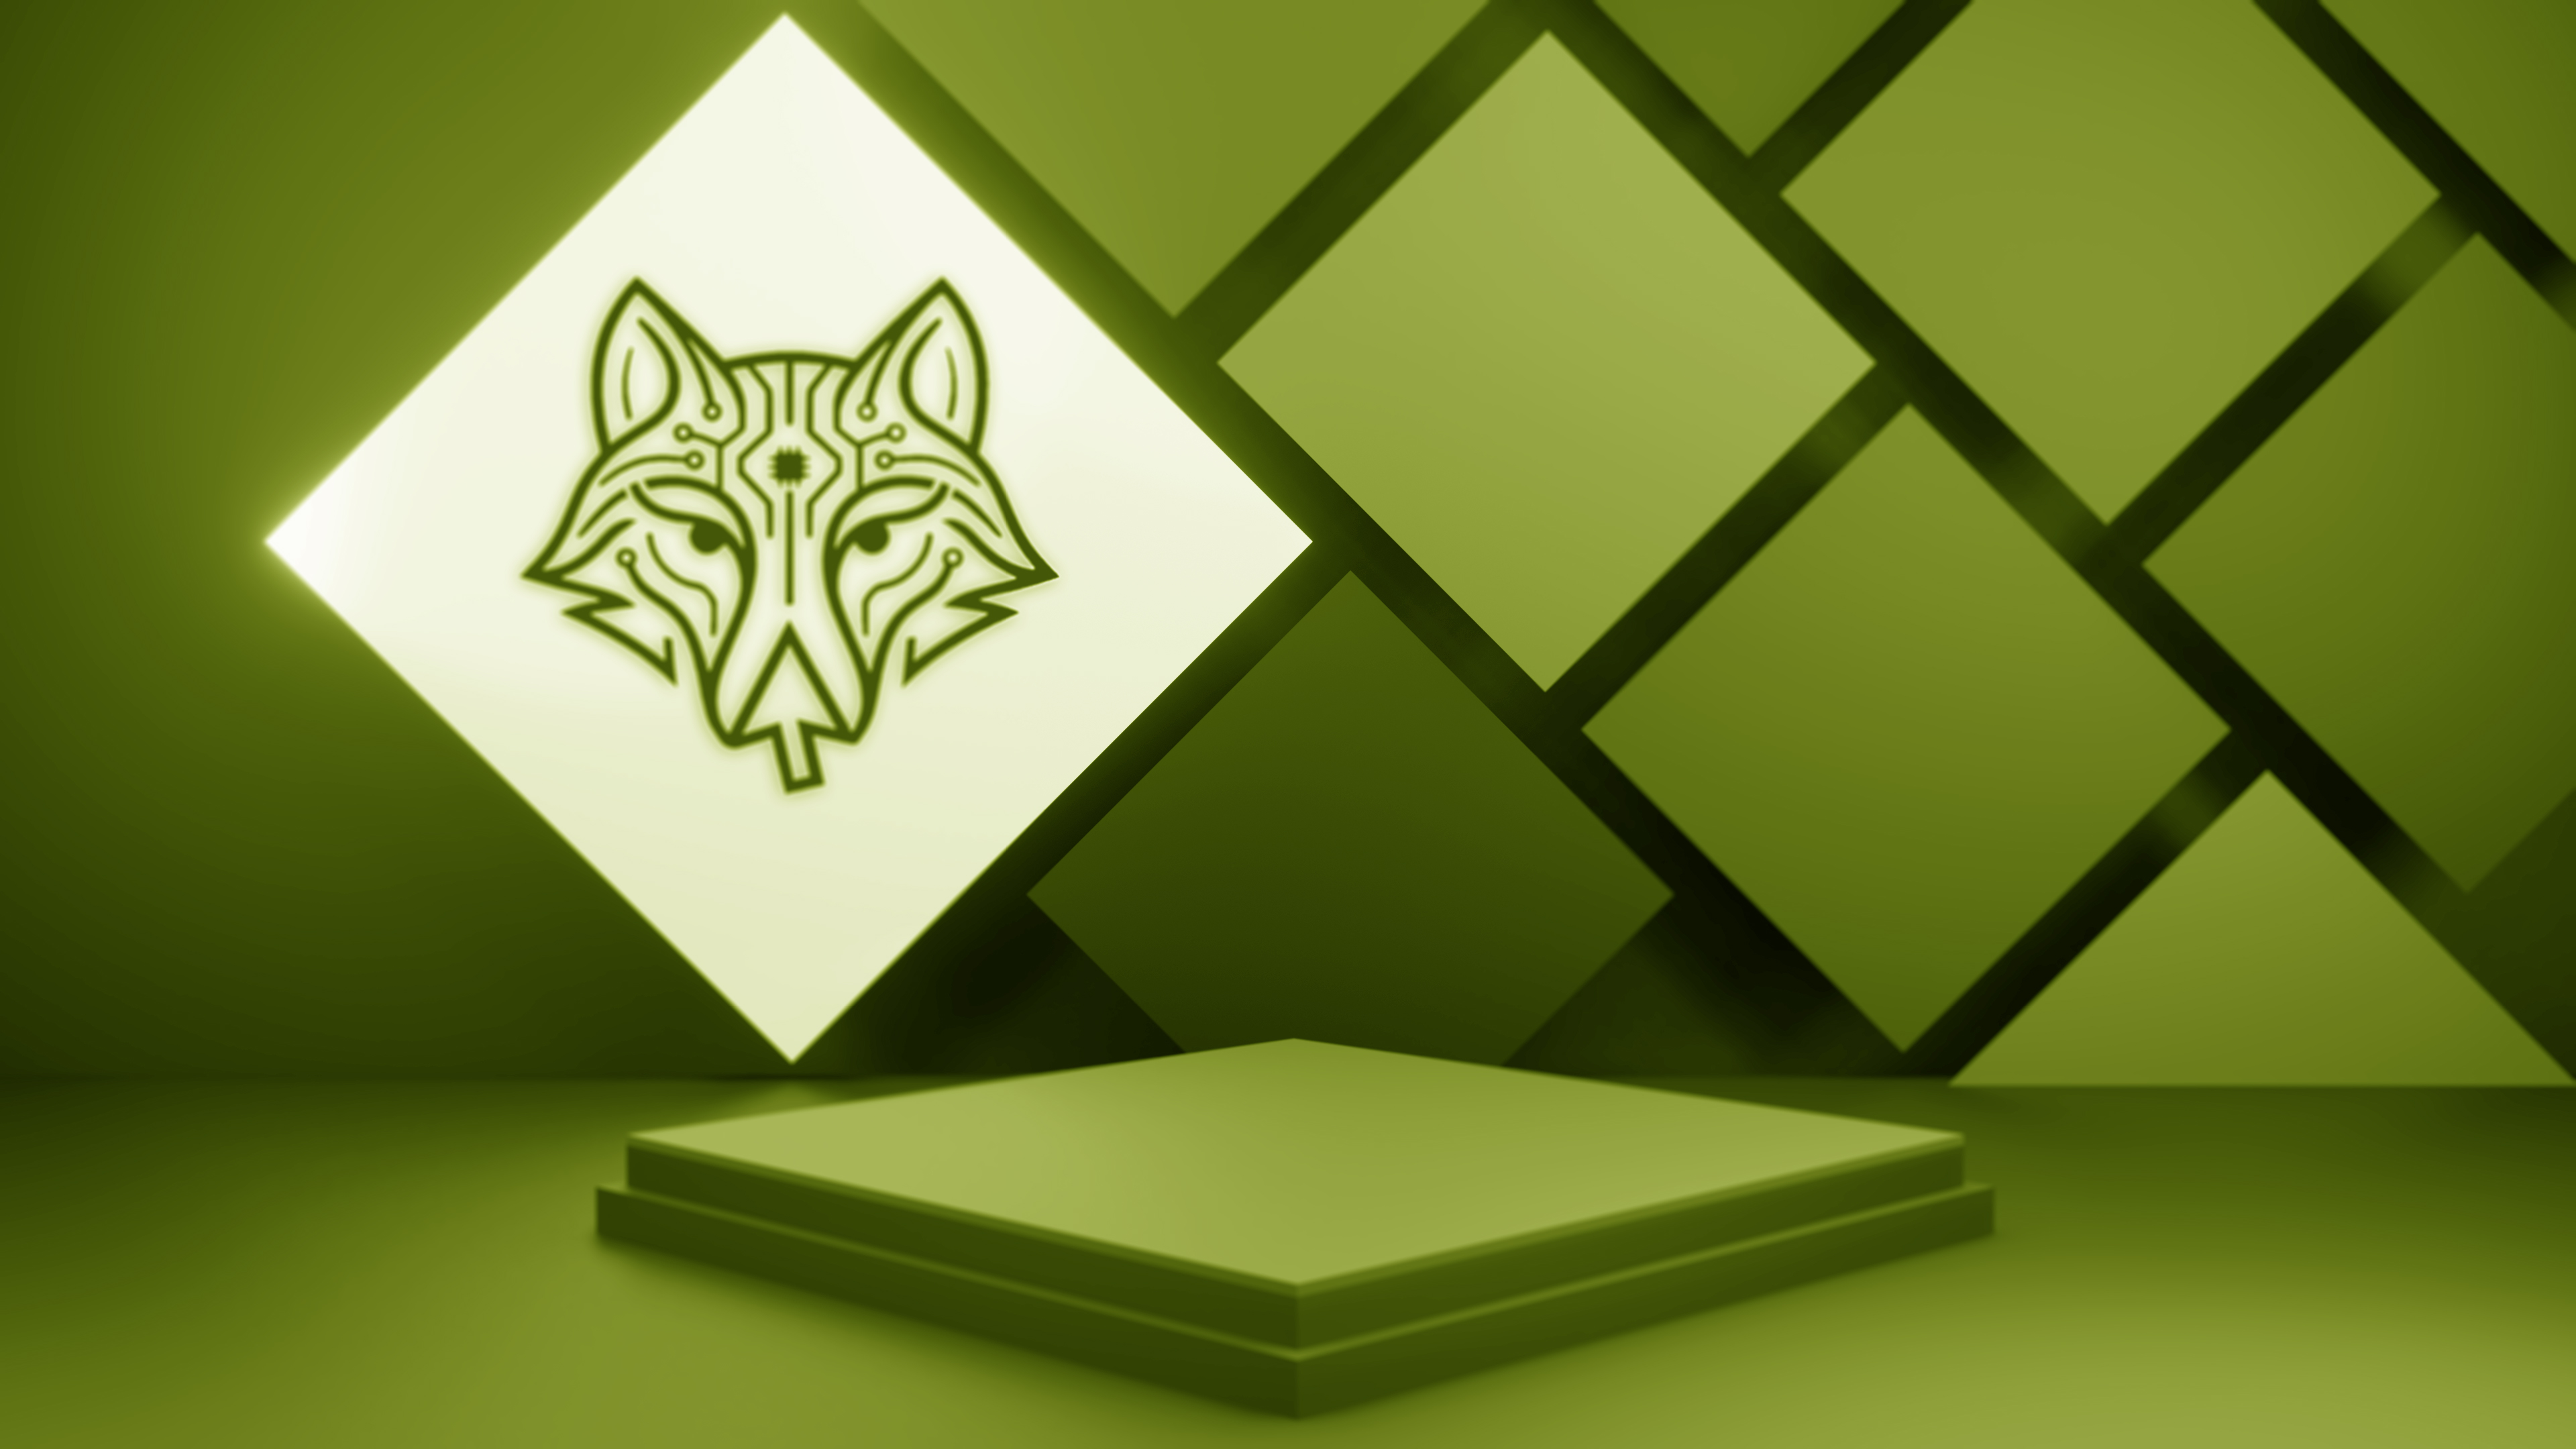
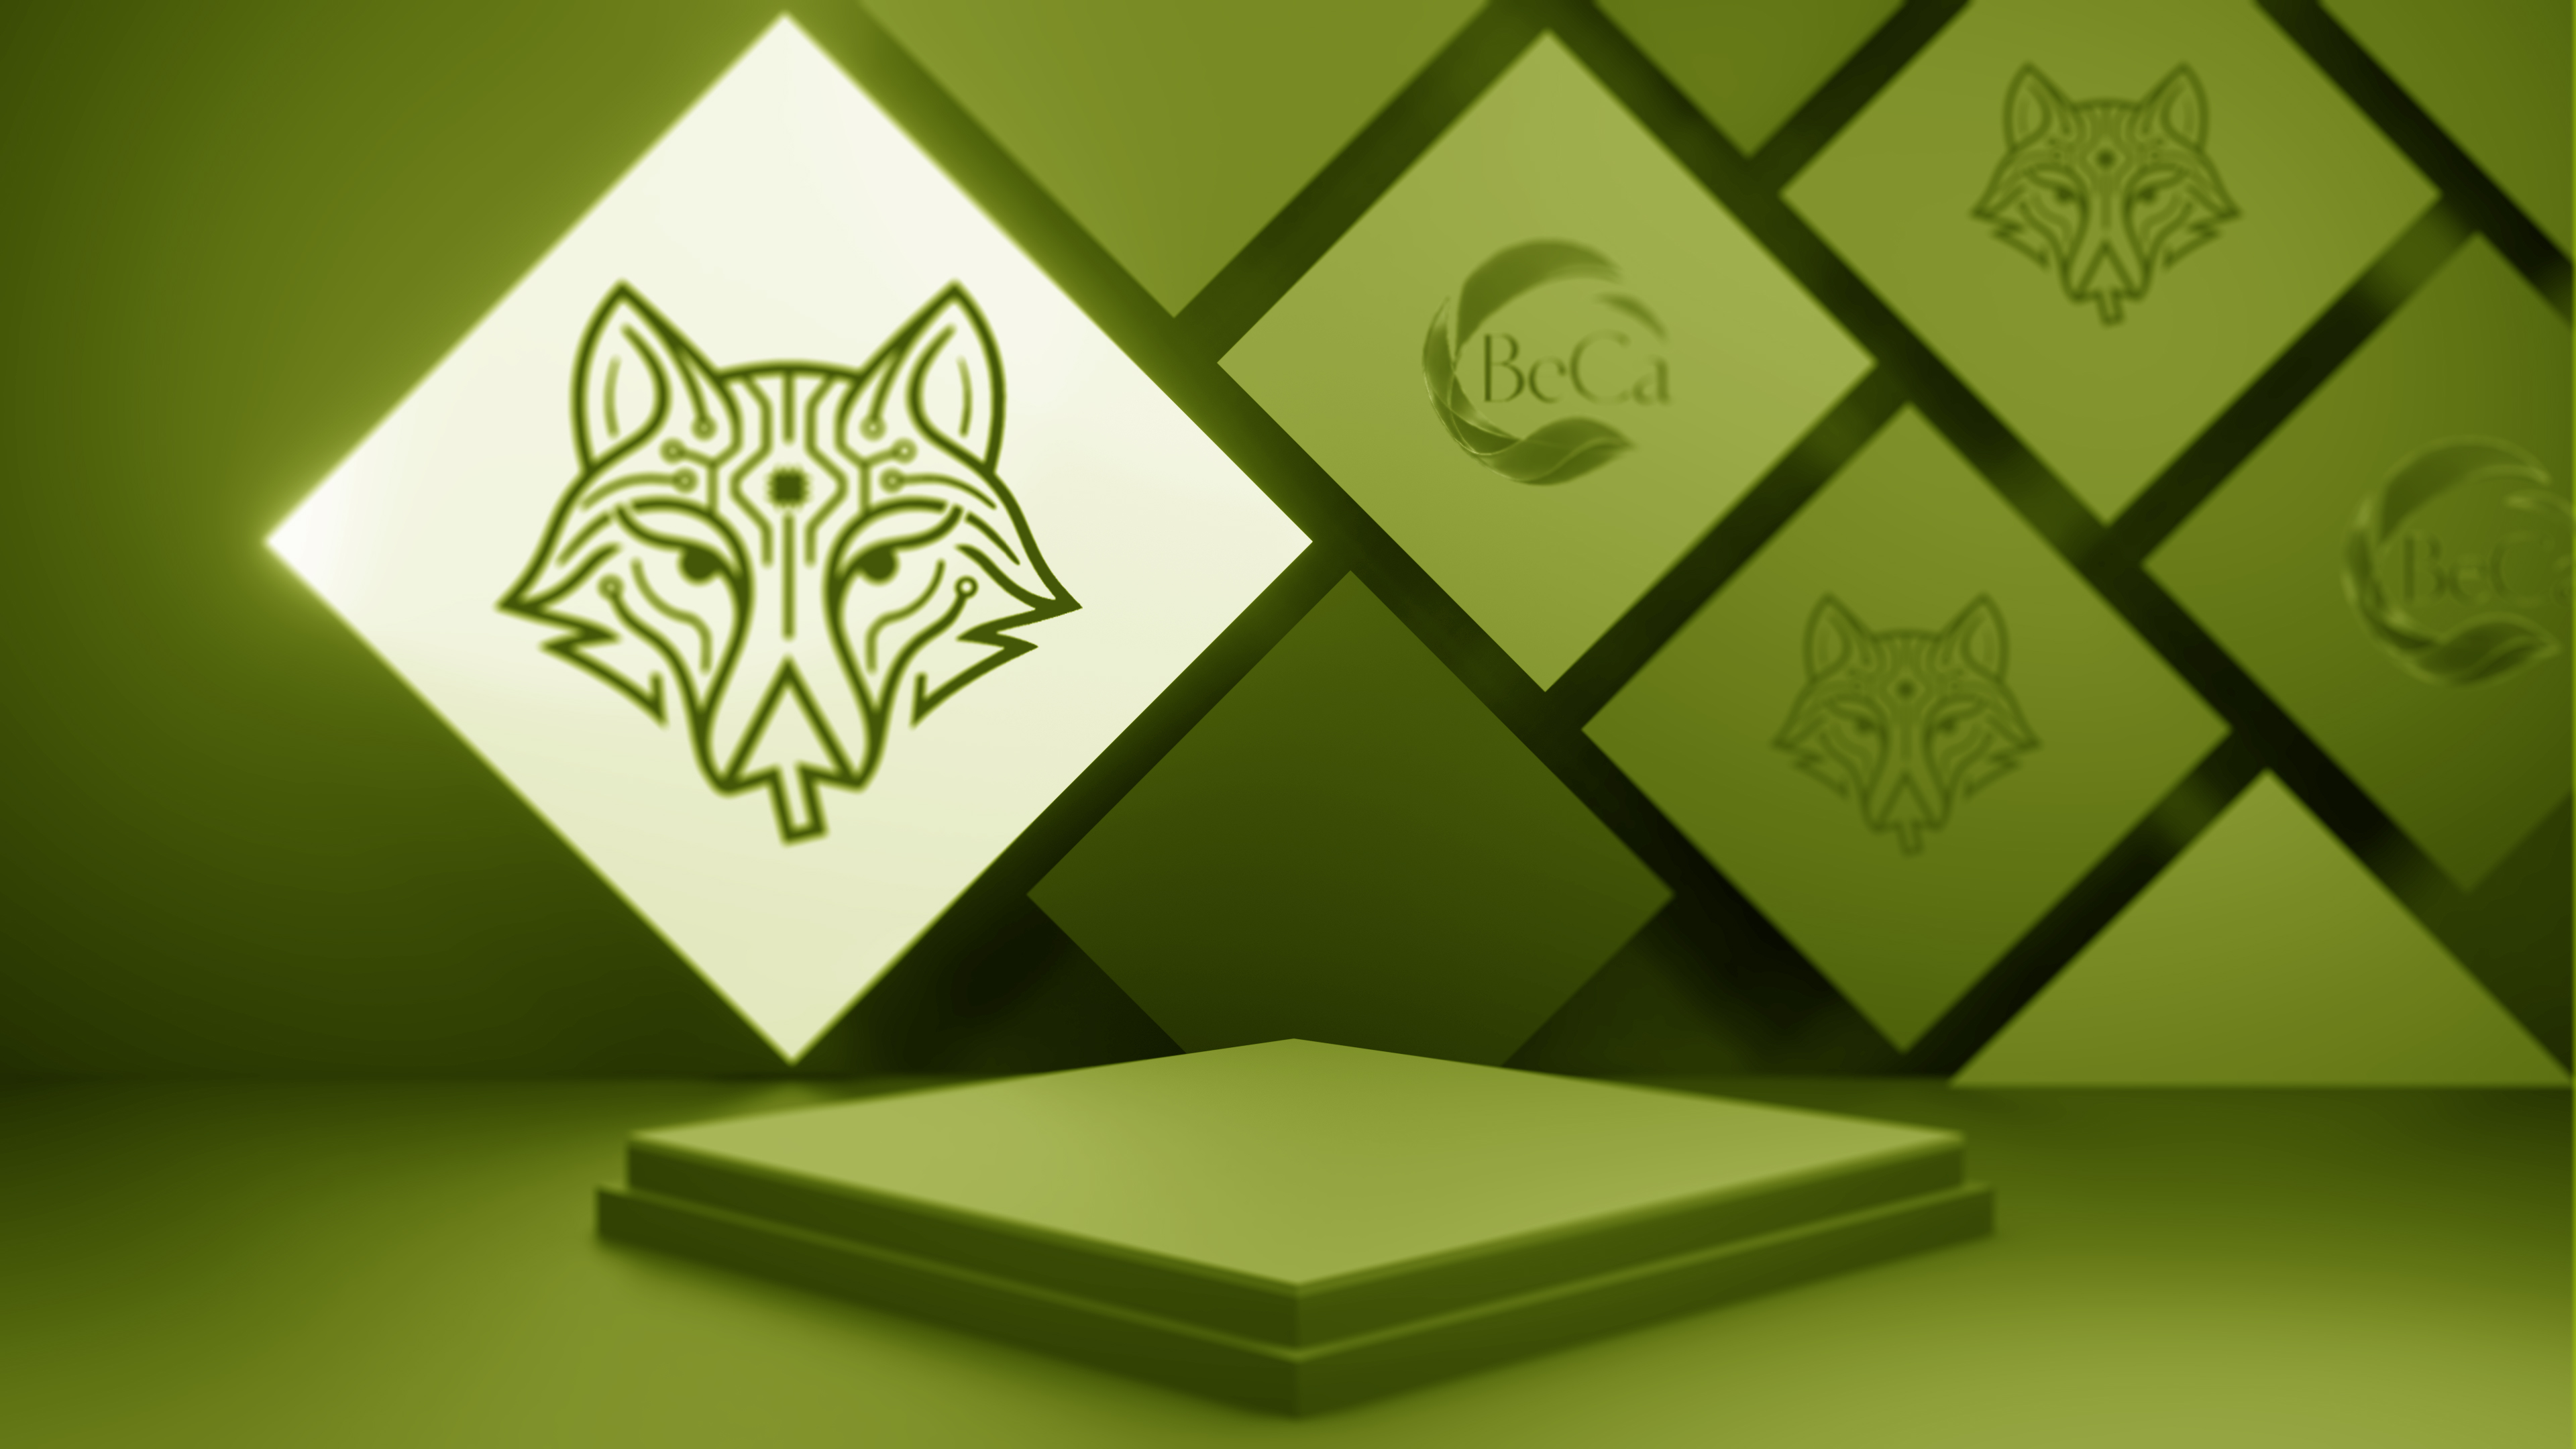
Fix photo studio stage background alignment

diff --git a/styles.css b/styles.css
@@ -5173,13 +5173,14 @@ body.beca-minimal {
 
 .photo-stage {
   position: relative;
-  aspect-ratio: 2 / 1;
-  min-height: clamp(420px, 42vw, 720px);
+  aspect-ratio: 16 / 9;
+  width: 100%;
+  min-height: 0;
   overflow: hidden;
   border-radius: 20px;
   background:
     linear-gradient(180deg, rgba(0, 0, 0, 0.02), rgba(0, 0, 0, 0.12)),
-    url("assets/studio-stage-bg.jpg") center / cover no-repeat;
+    url("assets/studio-stage-bg.png") 50% 50% / cover no-repeat;
 }
 
 .photo-stage::after {
@@ -5311,7 +5312,8 @@ body.beca-minimal {
   }
 
   .photo-stage {
-    min-height: 430px;
+    aspect-ratio: 16 / 9;
+    min-height: 0;
   }
 
   .photo-stage-controls {

diff --git a/admin.js b/admin.js
@@ -225,10 +225,10 @@ async function buildSceneImage() {
   window.BecaPhotoStudio3D.update(photoState);
 
   const canvas = document.createElement("canvas");
-  canvas.width = 2048;
-  canvas.height = 1024;
+  canvas.width = 1920;
+  canvas.height = 1080;
   const ctx = canvas.getContext("2d");
-  const background = await loadImageForCanvas("/assets/studio-stage-bg.jpg");
+  const background = await loadImageForCanvas("/assets/studio-stage-bg.png");
   const productLayer = await loadImageForCanvas(window.BecaPhotoStudio3D.capture());
 
   drawCover(ctx, background, canvas.width, canvas.height);

diff --git a/admin/dashboard.html b/admin/dashboard.html
@@ -5,7 +5,7 @@
   <meta name="viewport" content="width=device-width, initial-scale=1, maximum-scale=1, user-scalable=no, viewport-fit=cover">
   <title>Admin Dashboard / BeCa</title>
   <link rel="icon" href="../favicon.ico" sizes="any">
-  <link rel="stylesheet" href="../styles.css?v=photo-studio-3d-1">
+  <link rel="stylesheet" href="../styles.css?v=photo-studio-stage-2">
   <script type="importmap">
     {
       "imports": {
@@ -210,7 +210,7 @@
 
   <script src="../security.js"></script>
   <script src="../script.js"></script>
-  <script src="../admin.js?v=photo-studio-3d-1"></script>
-  <script type="module" src="../studio.js?v=photo-studio-3d-1"></script>
+  <script src="../admin.js?v=photo-studio-stage-2"></script>
+  <script type="module" src="../studio.js?v=photo-studio-stage-2"></script>
 </body>
 </html>